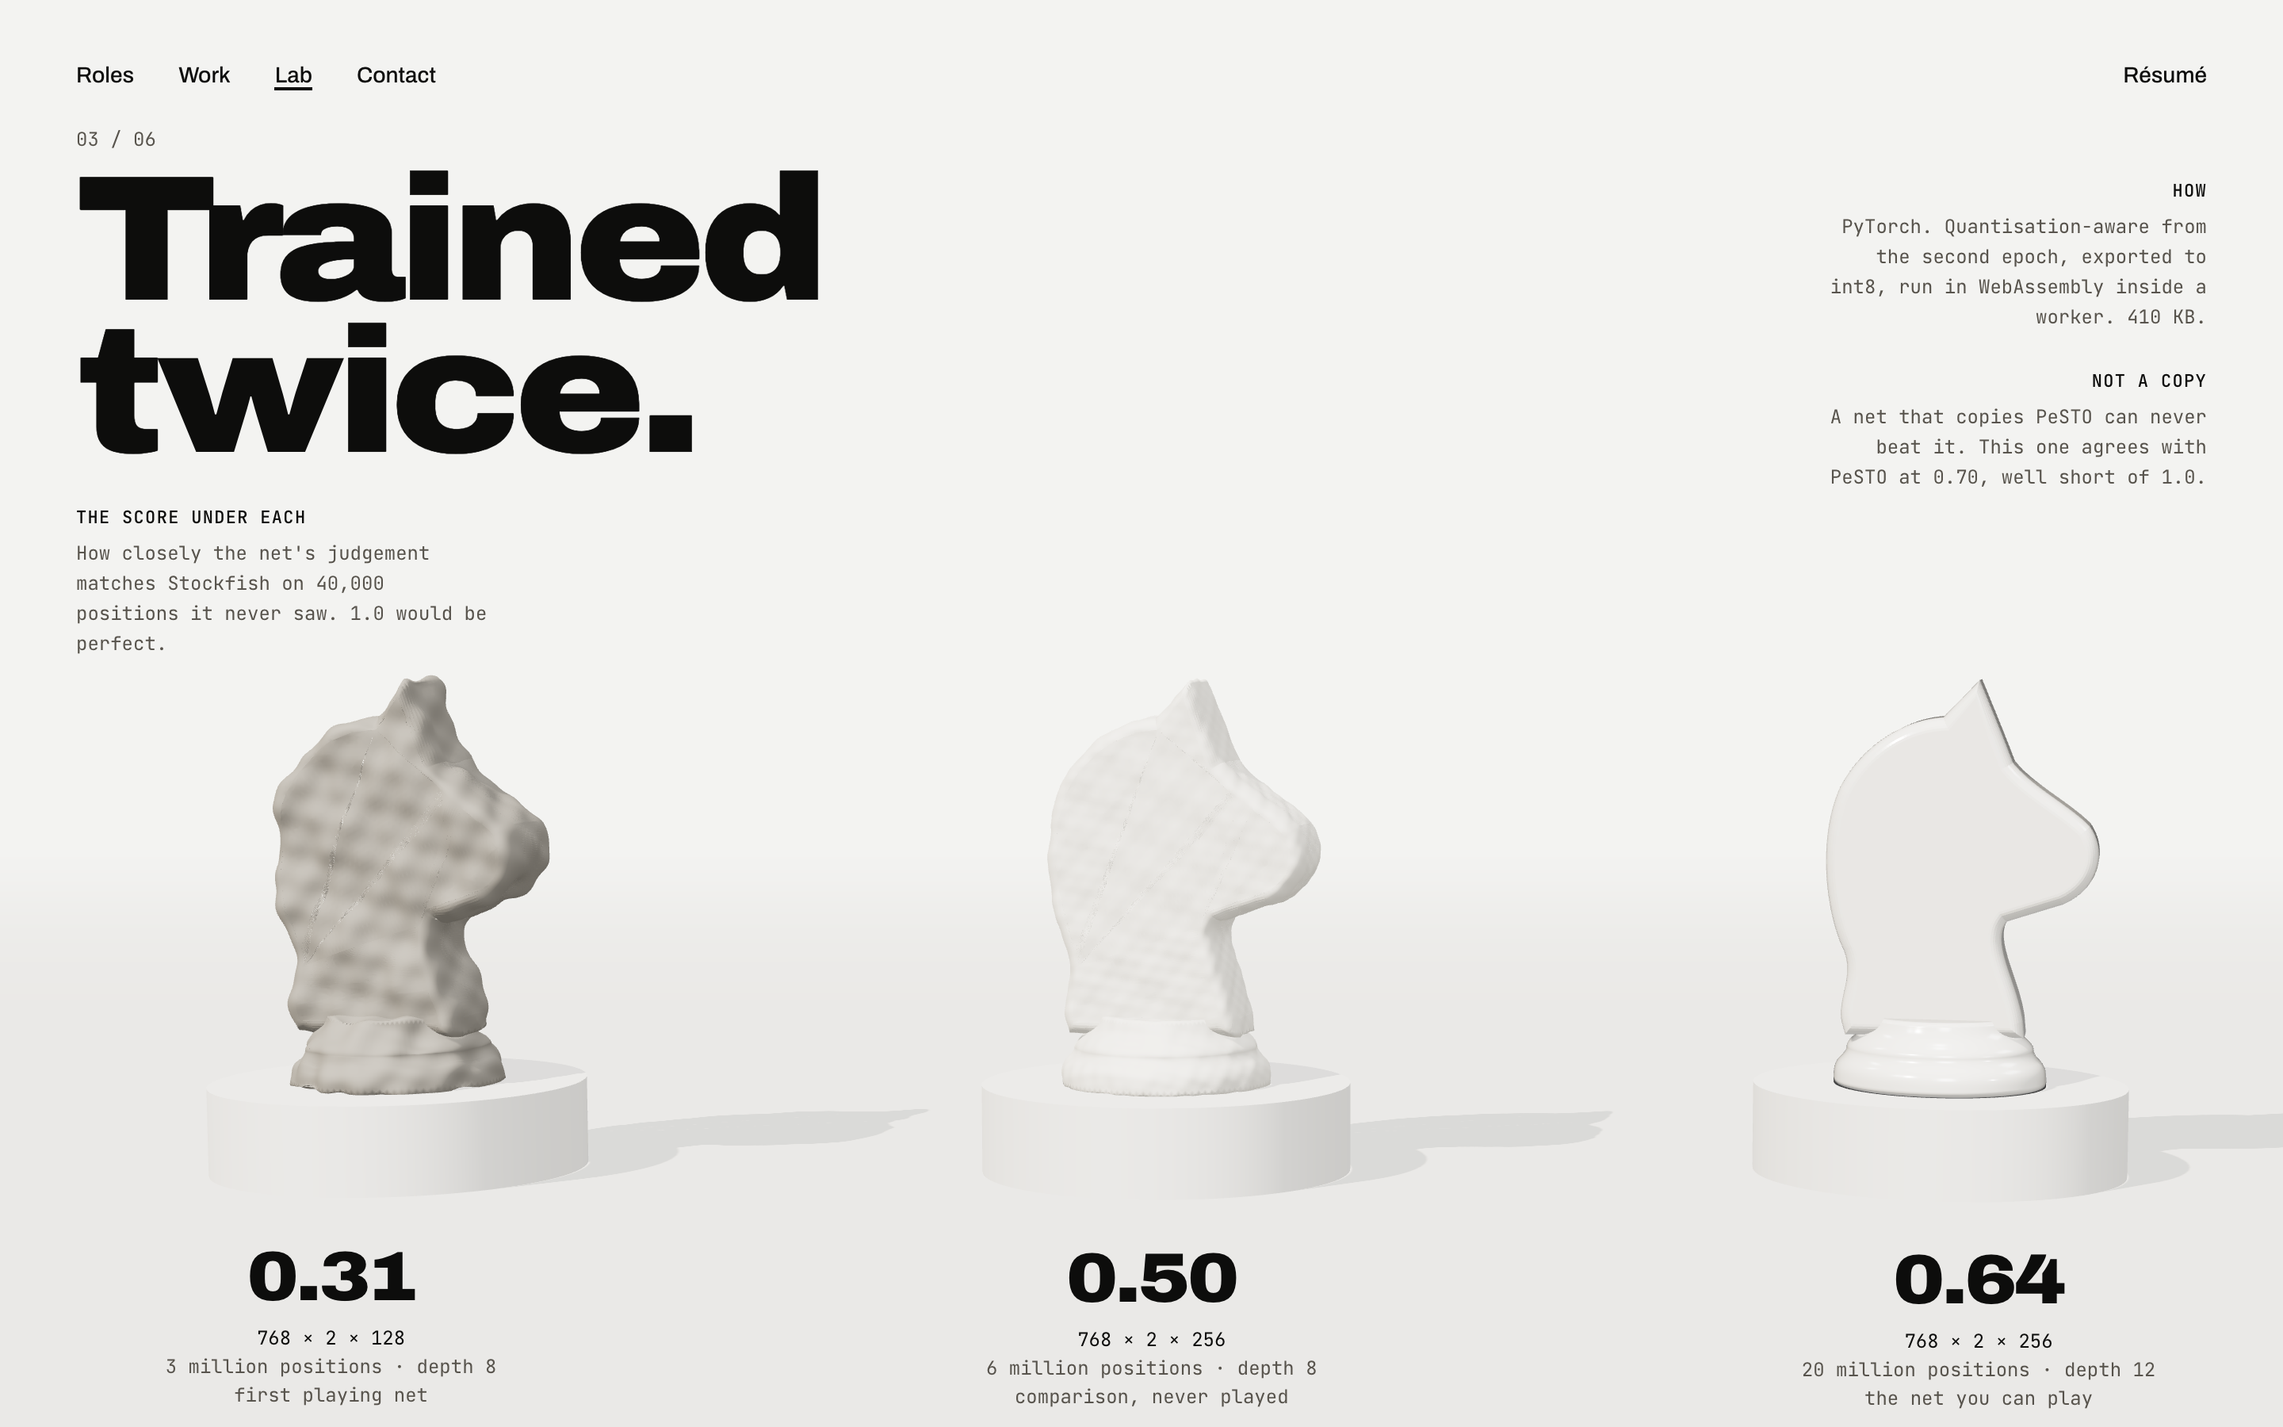
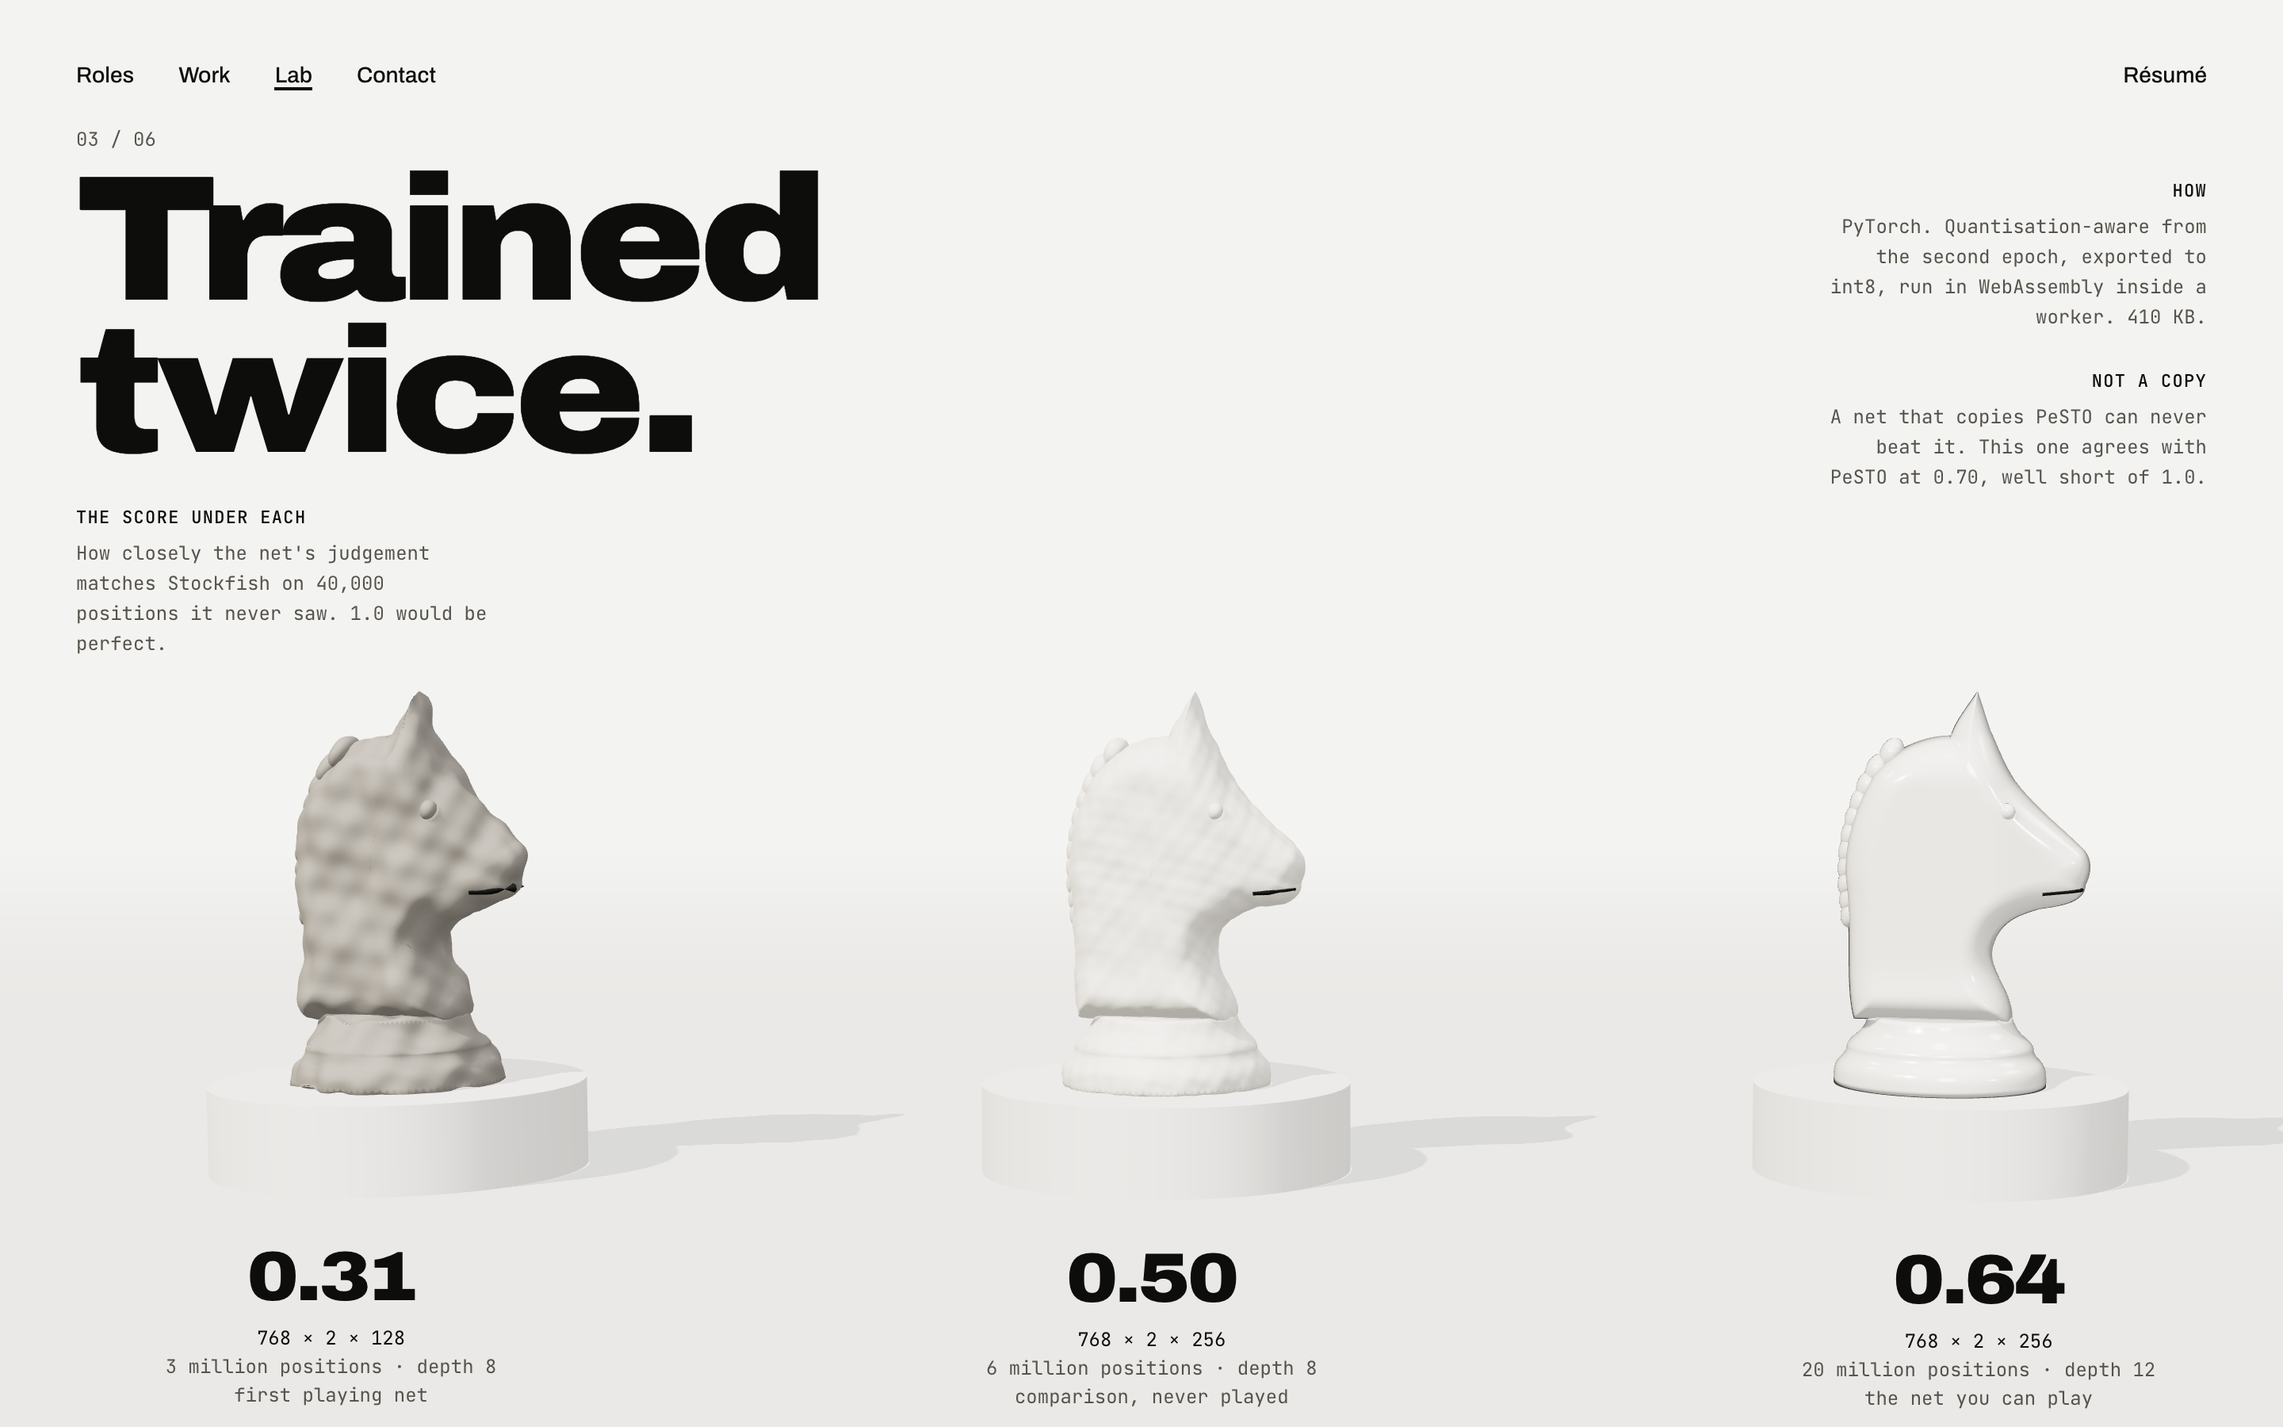
design: model the knight properly, close gate 2
The knight head is now the Staunton silhouette inflated into a rounded
volume, meshed as concentric rings so it shades cleanly, with a braided
mane, eyes and a mouth line. The learned knight's copper circuit
follows the curved surface. All frames re-rendered with it.

final.html shows before and after for the knight and for the two Lab
fixes from round 2. Records Gate 2 as approved and closed.

diff --git a/design/keyframes/_shared/chess3d.js b/design/keyframes/_shared/chess3d.js
@@ -2,6 +2,7 @@
 // Board: one square = 1 unit, centred on the origin. Files a..h run -x to +x; White sits at +z.
 import * as THREE from "three";
 import { RoomEnvironment } from "three/addons/environments/RoomEnvironment.js";
+import { mergeGeometries, mergeVertices } from "three/addons/utils/BufferGeometryUtils.js";
 
 export { THREE };
 
@@ -26,20 +27,69 @@ export function profileRadius(type, y) {
   return 0;
 }
 
-function knightHead() {
+// The knight: a Staunton head in profile (facing +x), inflated into a rounded volume.
+// Thinner at the muzzle and ears, fuller at the neck; a braided mane on the rim, eyes and a mouth line.
+function knightShape() {
   const s = new THREE.Shape();
-  s.moveTo(-.26, .20); s.lineTo(.22, .20);
-  s.bezierCurveTo(.20, .34, .10, .46, .18, .56);
-  s.lineTo(.36, .62);
-  s.bezierCurveTo(.44, .66, .46, .74, .42, .80);
-  s.bezierCurveTo(.36, .86, .24, .92, .18, 1.00);
-  s.lineTo(.14, 1.10); s.lineTo(.10, 1.22); s.lineTo(.02, 1.12);
-  s.bezierCurveTo(-.10, 1.12, -.22, 1.04, -.28, .92);
-  s.bezierCurveTo(-.34, .78, -.32, .56, -.26, .44);
-  s.bezierCurveTo(-.22, .34, -.28, .26, -.26, .20);
-  const g = new THREE.ExtrudeGeometry(s, { depth: .16, bevelEnabled: true, bevelThickness: .065, bevelSize: .04, bevelSegments: 8, curveSegments: 40 });
-  g.translate(0, 0, -.08);
-  return g;
+  s.moveTo(.22, .20);
+  s.bezierCurveTo(.24, .28, .14, .36, .16, .44);
+  s.bezierCurveTo(.18, .52, .24, .54, .30, .56);
+  s.bezierCurveTo(.36, .57, .44, .58, .44, .64);
+  s.bezierCurveTo(.46, .68, .46, .73, .42, .76);
+  s.bezierCurveTo(.36, .82, .28, .88, .22, .96);
+  s.bezierCurveTo(.18, 1.02, .16, 1.08, .14, 1.12);
+  s.lineTo(.10, 1.24);
+  s.bezierCurveTo(.06, 1.18, .03, 1.14, .02, 1.10);
+  s.bezierCurveTo(-.06, 1.10, -.16, 1.06, -.22, .98);
+  s.bezierCurveTo(-.28, .88, -.32, .74, -.30, .62);
+  s.bezierCurveTo(-.28, .46, -.30, .30, -.27, .20);
+  s.lineTo(.22, .20);
+  return s;
+}
+const KPOLY = knightShape().getSpacedPoints(420);
+const sstep = (a, b, v) => { const t = Math.min(1, Math.max(0, (v - a) / (b - a))); return t * t * (3 - 2 * t); };
+function edgeDist(x, y) {
+  let m = Infinity;
+  for (let i = 1; i < KPOLY.length; i++) {
+    const a = KPOLY[i - 1], b = KPOLY[i], dx = b.x - a.x, dy = b.y - a.y, L = dx * dx + dy * dy || 1e-9;
+    const t = Math.max(0, Math.min(1, ((x - a.x) * dx + (y - a.y) * dy) / L)), ex = a.x + t * dx - x, ey = a.y + t * dy - y;
+    m = Math.min(m, ex * ex + ey * ey);
+  }
+  return Math.sqrt(m);
+}
+/** Half-thickness of the knight's head at (x, y) in its own profile plane. */
+export function knightHalfDepth(x, y) {
+  const T = .17 - .075 * sstep(.12, .42, x) * sstep(.45, .62, y) - .07 * sstep(.95, 1.2, y) + .025 * (1 - sstep(.2, .4, y));
+  const k = Math.min(edgeDist(x, y) / .1, 1);
+  return T * Math.sqrt(1 - (1 - k) ** 2);
+}
+let KNIGHT_GEO = null;
+function knightHead() {
+  if (KNIGHT_GEO) return KNIGHT_GEO;
+  // conforming mesh: the silhouette is star-shaped about a point in the neck, so build it as concentric rings
+  const contour = KPOLY.slice(0, -1), C = new THREE.Vector2(.0, .66), K = 28, n = contour.length;
+  const ring = (k, i) => { const q = contour[i % n], t = k / K; return [C.x + (q.x - C.x) * t, C.y + (q.y - C.y) * t]; };
+  const pos = [], push = (side, pts) => { for (const [x, y] of side > 0 ? pts : [pts[0], pts[2], pts[1]]) pos.push(x, y, side * knightHalfDepth(x, y)); };
+  for (const side of [1, -1]) for (let k = 0; k < K; k++) for (let i = 0; i < n; i++) {
+    const a = ring(k, i), b = ring(k + 1, i), c = ring(k + 1, i + 1), d = ring(k, i + 1);
+    push(side, [a, b, c]); if (k > 0) push(side, [a, c, d]);
+  }
+  const both = new THREE.BufferGeometry(); both.setAttribute("position", new THREE.Float32BufferAttribute(pos, 3));
+  const m = mergeVertices(both, 1e-5); m.computeVertexNormals();
+  return (KNIGHT_GEO = m);
+}
+function knightDetails(add, mat) {
+  // the mane: a braid of flattened beads along the back of the neck
+  for (let i = 0; i <= 10; i++) {
+    const t = i / 10, y = 1.04 - t * .5, p = KPOLY.filter((q) => q.x < -.05 && Math.abs(q.y - y) < .02).sort((a, b) => a.x - b.x)[0];
+    if (!p) continue;
+    const b = add(new THREE.SphereGeometry(.05, 24, 16), mat); b.position.set(p.x + .018, y, 0); b.scale.set(.75, 1.05, 1.35); b.rotation.z = -.35;
+  }
+  for (const z of [1, -1]) {
+    const e = add(new THREE.SphereGeometry(.026, 24, 16), mat); e.position.set(.2, .87, z * (knightHalfDepth(.2, .87) - .01));
+    const mouth = []; for (let i = 0; i <= 12; i++) { const t = i / 12, x = .43 - t * .12, y = .625 - t * .01; mouth.push(new THREE.Vector3(x, y, z * (knightHalfDepth(x, y) - .002))); }
+    const g = add(new THREE.TubeGeometry(new THREE.CatmullRomCurve3(mouth), 24, .006, 6, false), MAT.dark()); g.castShadow = false;
+  }
 }
 
 export const MAT = {
@@ -92,7 +142,7 @@ export function piece(type, mat) {
   if (type === "R") {
     for (let i = 0; i < 6; i++) { const a = (i / 6) * Math.PI * 2, m = add(new THREE.BoxGeometry(.11, .13, .1)); m.position.set(Math.cos(a) * .225, .985, Math.sin(a) * .225); m.rotation.y = -a; }
   }
-  if (type === "N") add(knightHead());
+  if (type === "N") { add(knightHead()); knightDetails(add, mat); }
   return g;
 }
 

diff --git a/design/keyframes/final.html b/design/keyframes/final.html
@@ -1,0 +1,16 @@
+<!doctype html><html lang="en-GB"><head><meta charset="utf-8"><title>Gate 2, final state</title><link rel="stylesheet" href="_shared/fonts.css">
+<style>* { box-sizing: border-box; margin: 0; padding: 0; } body { font-family: "Archivo", sans-serif; background: #e9e8e4; color: #0d0d0c; padding: 56px 48px 120px; }
+h1 { font-size: 48px; font-weight: 900; font-variation-settings: "wdth" 112; letter-spacing: -.03em; } .lede { margin-top: 12px; max-width: 76ch; color: #3d3a35; line-height: 1.5; }
+section { margin-top: 56px; } h2 { font-size: 26px; font-weight: 800; letter-spacing: -.02em; } .note { margin-top: 6px; color: #77726a; font-size: 14px; max-width: 84ch; line-height: 1.45; }
+.row { display: grid; grid-template-columns: repeat(2, minmax(0, 1fr)); gap: 20px; margin-top: 20px; } figure { background: #fff; border-radius: 10px; overflow: hidden; } img { display: block; width: 100%; height: auto; }
+figcaption { padding: 10px 14px 12px; font-size: 13px; font-family: "JetBrains Mono", monospace; color: #77726a; }</style></head><body>
+<h1>Gate 2: the three open items</h1>
+<p class="lede">Before and after for each item that was still rough. Every other frame was re-rendered with the new knight.</p>
+<section><h2>Knights: modelled properly</h2><p class="note">Was a flat extruded slab. Now the same Staunton silhouette inflated into a rounded volume: thinner at the muzzle and ears, fuller at the neck, with a braided mane, eyes and a mouth line. The learned knight's copper circuit follows the curved surface.</p>
+<div class="row"><figure><img src="png/knight-study.png"><figcaption>after · study: ivory from three angles, ebony, aluminium, learned</figcaption></figure><figure><img src="png/lab2-1.png"><figcaption>after · lab2-1</figcaption></figure>
+<figure><img src="png/work-c.png"><figcaption>after · work-c</figcaption></figure><figure><img src="r1/lab2-1-oldknight.png"><figcaption>before · lab2-1, slab knight</figcaption></figure></div></section>
+<section><h2>Chapter 2: spilled sheets on white</h2><p class="note">Fixed in round 2: each sheet's edges are darker than its face, so the pile draws its own outline on the white side.</p>
+<div class="row"><figure><img src="png/lab2-2.png"><figcaption>after</figcaption></figure><figure><img src="r1/lab2-2.png"><figcaption>before</figcaption></figure></div></section>
+<section><h2>Chapter 5: heaps, not columns</h2><p class="note">Fixed in round 2: each dropped stone slides to the lowest of several nearby rests, and the heaps are wider, so they settle into low piles.</p>
+<div class="row"><figure><img src="png/lab2-5b.png"><figcaption>after</figcaption></figure><figure><img src="r1/lab2-5b.png"><figcaption>before</figcaption></figure></div></section>
+</body></html>

diff --git a/design/keyframes/_shared/sculptures.js b/design/keyframes/_shared/sculptures.js
@@ -1,5 +1,5 @@
 // The three featured project pieces, each in the material that argues for it.
-import { THREE, piece, profileRadius, MAT } from "./chess3d.js";
+import { THREE, piece, profileRadius, MAT, knightHalfDepth } from "./chess3d.js";
 
 function surfaceTube(type, pts, radius, mat, lift = .004) {
   const v = pts.map(([y, a]) => { const r = profileRadius(type, y) + lift; return new THREE.Vector3(Math.sin(a) * r, y, Math.cos(a) * r); });
@@ -40,12 +40,13 @@ export function circuitmind() {
 export function learnedKnight() {
   const g = piece("N", MAT.basalt()), cu = MAT.copper();
   const paths = [[[-.15, .28], [-.15, .6], [.1, .6], [.1, .72], [.3, .72]], [[-.15, .6], [-.15, .88], [.05, .88], [.05, 1.02]], [[.1, .6], [.1, .44], [-.02, .44]]];
-  for (const z of [.152, -.152]) {
+  for (const side of [1, -1]) {
     for (const p of paths) {
-      const curve = new THREE.CurvePath();
-      for (let i = 1; i < p.length; i++) curve.add(new THREE.LineCurve3(new THREE.Vector3(p[i - 1][0], p[i - 1][1], z), new THREE.Vector3(p[i][0], p[i][1], z)));
-      g.add(new THREE.Mesh(new THREE.TubeGeometry(curve, 64, .011, 8, false), cu));
-      [p[0], p.at(-1)].forEach(([x, y]) => { const n = new THREE.Mesh(new THREE.CylinderGeometry(.03, .03, .012, 24), cu); n.rotation.x = Math.PI / 2; n.position.set(x, y, z); g.add(n); });
+      const pts = [];
+      for (let i = 1; i < p.length; i++) for (let k = 0; k < 12; k++) { const t = k / 12, x = p[i - 1][0] + (p[i][0] - p[i - 1][0]) * t, y = p[i - 1][1] + (p[i][1] - p[i - 1][1]) * t; pts.push(new THREE.Vector3(x, y, side * (knightHalfDepth(x, y) + .004))); }
+      const [x1, y1] = p.at(-1); pts.push(new THREE.Vector3(x1, y1, side * (knightHalfDepth(x1, y1) + .004)));
+      g.add(new THREE.Mesh(new THREE.TubeGeometry(new THREE.CatmullRomCurve3(pts, false, "catmullrom", .05), 160, .011, 8, false), cu));
+      [p[0], p.at(-1)].forEach(([x, y]) => { const n = new THREE.Mesh(new THREE.CylinderGeometry(.03, .03, .014, 24), cu); n.rotation.x = Math.PI / 2; n.position.set(x, y, side * (knightHalfDepth(x, y) + .003)); g.add(n); });
     }
   }
   const ring = []; for (let i = 0; i <= 64; i++) ring.push([.12, (i / 64) * Math.PI * 2]);

diff --git a/design/keyframes/knight-study.html b/design/keyframes/knight-study.html
@@ -1,0 +1,13 @@
+<!doctype html><html lang="en-GB"><head><meta charset="utf-8"><title>Knight study</title><link rel="stylesheet" href="_shared/tokens.css">
+<script type="importmap">{"imports":{"three":"/node_modules/three/build/three.module.js","three/addons/":"/node_modules/three/examples/jsm/"}}</script></head><body><div class="frame"><canvas id="c"></canvas></div>
+<script type="module">
+import { THREE, renderer, applyEnv, piece, MAT, done } from "./_shared/chess3d.js"; import { teleportal, learnedKnight } from "./_shared/sculptures.js";
+const { r, envTex } = renderer(document.getElementById("c")), scene = new THREE.Scene(); scene.background = new THREE.Color(0xe9e8e4); applyEnv(scene, envTex, .5);
+scene.add(new THREE.HemisphereLight(0xffffff, 0xcfccc4, .6));
+const key = new THREE.DirectionalLight(0xfff6ea, 2.8); key.position.set(-6, 9, 8); key.castShadow = true; key.shadow.mapSize.set(4096, 4096); key.shadow.bias = -.0004; Object.assign(key.shadow.camera, { left: -10, right: 10, top: 10, bottom: -10 }); scene.add(key);
+const floor = new THREE.Mesh(new THREE.PlaneGeometry(80, 80), new THREE.MeshStandardMaterial({ color: 0xdedcd6, roughness: .9 })); floor.rotation.x = -Math.PI / 2; floor.receiveShadow = true; scene.add(floor);
+const items = [[piece("N", MAT.ivory()), -.5], [piece("N", MAT.ivory()), -1.4], [piece("N", MAT.ivory()), .6], [piece("N", MAT.ebony()), -.5], [teleportal(), null], [learnedKnight(), -.3]];
+items.forEach(([k, ry], i) => { k.scale.setScalar(1.6); k.position.set(-6.25 + i * 2.5, 0, 0); if (ry !== null) k.rotation.y = ry; scene.add(k); });
+const cam = new THREE.PerspectiveCamera(24, innerWidth / innerHeight, .1, 100); cam.position.set(0, 3.2, 18); cam.lookAt(0, 1.1, 0);
+done(r, scene, cam);
+</script></body></html>

diff --git a/design/decisions.md b/design/decisions.md
@@ -78,7 +78,7 @@ Owner decisions for the v3 redesign, newest last.
 **Still rough in the Lab frames (fix during round 2 or in the build):**
 - ~~02: the spilled sheets are low contrast on the white side.~~ Fixed in round 2 (darker sheet edges).
 - ~~05: the heaps read slightly like columns rather than piles.~~ Fixed in round 2 (wider settling).
-- All knights use the placeholder silhouette; Phase 4 models it properly.
+- ~~All knights use the placeholder silhouette.~~ Fixed before closing Gate 2 (see below).
 - The camera's dive between chapters is motion only (Phase 3), so no frame shows it.
 - Trees in 00 are still seeded placeholders; the build draws the kept engine's real search.
 
@@ -92,3 +92,11 @@ Review page: `design/keyframes/round2.html`. The picks stay stable; only the §5
 **Owner decisions (2026-09-28):**
 - The Lab chapters may run past the 20-word rule, about 40 to 70 words each, because they carry the technical story.
 - The Lab gets phone compositions: `lab-a-m` and `lab2-1-m` to `lab2-7-m`. On phones the seam turns horizontal, white on top, at the same share as on desktop, as the hero does. Chapter 02 puts the seam exactly on the top of the kept stack; 03 recedes the casts so the playing net is largest; 06 uses a long lens so the plinths stay true to scale.
+
+## Gate 2 (2026-09-28)
+
+**The owner approved the key frames.** Before closing, the knight was modelled properly: the Staunton silhouette inflated into a rounded volume (thinner at the muzzle and ears, fuller at the neck) with a braided mane, eyes and a mouth line. The learned knight's circuit follows the curved surface. Every frame was re-rendered with it. `design/keyframes/final.html` shows before and after for the knight and for the two Lab fixes from round 2.
+
+Approved set: the eight picks in `picks.html` (with the round 2 fixes in `round2.html`) and the Lab chapters with their phone frames in `lab-round2.html`.
+
+**Gate 2 closed.** Next is Phase 3, which starts only on the owner's go-ahead.
